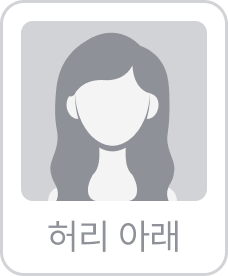
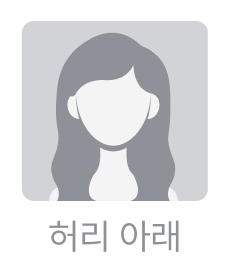
[ApplicationPage] box-shadow QA (#431)
* design: 레이아웃 및 스타일 수정

* chore: 이미지 파일 수정 및 테두리 속성 설정

diff --git a/src/views/ApplicationPage/components/HairTypeInput.tsx b/src/views/ApplicationPage/components/HairTypeInput.tsx
@@ -24,45 +24,45 @@ const HairTypeInput = ({ type }: HairTypeInputProps) => {
   }, [selectedStyle.length]);
 
   return (
-    <>
+    <S.HairTypeLayout htmlFor={type}>
       <S.HairTypeInput
         type="radio"
         id={type}
-        name="hairtype"
+        name="hairType"
         onChange={() => {
           setSelectedStyle({ ...selectedStyle, length: type });
         }}
       />
-      <S.HairType htmlFor={type}>
-        <img src={!isActive ? hairImg[0] : hairImg[1]} alt="hairImg" />
-      </S.HairType>
-    </>
+      <S.HairTypeImg src={!isActive ? hairImg[0] : hairImg[1]} alt="hairImg" $isActive={isActive} />
+    </S.HairTypeLayout>
   );
 };
 
 const S = {
-  HairTypeInput: styled.input`
-    display: none;
+  HairTypeLayout: styled.label`
+    display: flex;
+    align-items: center;
 
-    width: 100%;
-
-    &:checked + label {
-      box-shadow: ${({ theme }) => theme.effects.shadow3};
-    }
-  `,
-
-  HairType: styled.label`
+    width: fit-content;
     height: 100%;
-    border-radius: 8px;
 
     cursor: pointer;
+  `,
 
-    & > img {
-      width: 100%;
-      height: 100%;
+  HairTypeInput: styled.input`
+    display: none;
+  `,
 
-      object-fit: contain;
-    }
+  HairTypeImg: styled.img<{ $isActive: boolean }>`
+    width: 100%;
+    max-height: 100%;
+    border: ${({ $isActive, theme }) =>
+      $isActive ? `1.25px solid ${theme.colors.moddy_blue}` : `1px solid ${theme.colors.moddy_gray20}`};
+    border-radius: 8px;
+
+    box-shadow: ${({ $isActive, theme }) => ($isActive ? theme.effects.shadow3 : 'none')};
+
+    object-fit: contain;
   `,
 };
 

diff --git a/src/views/ApplicationPage/components/DefaultInfo.tsx b/src/views/ApplicationPage/components/DefaultInfo.tsx
@@ -108,8 +108,7 @@ const S = {
     overflow-y: scroll;
 
     width: 100%;
-    margin: 8.5rem 1rem 10rem;
-    padding: 0 0.8rem 0 1rem;
+    margin: 8.5rem 0 10rem;
 
     &::-webkit-scrollbar {
       width: 0;
@@ -138,6 +137,7 @@ const S = {
     flex-direction: column;
 
     width: 100%;
+    padding: 0 1.6rem;
   `,
 
   Title: styled.div`
@@ -168,7 +168,7 @@ const S = {
 
     width: 100%;
     height: 9.2rem;
-    margin: 2rem 0 2.8rem;
+    margin: 2rem 0 2.4rem;
   `,
 
   DeserveStyleSection: styled.section`
@@ -177,6 +177,7 @@ const S = {
 
     width: 100%;
     margin-top: 2.4rem;
+    padding: 0 1.6rem;
 
     & > p {
       display: flex;
